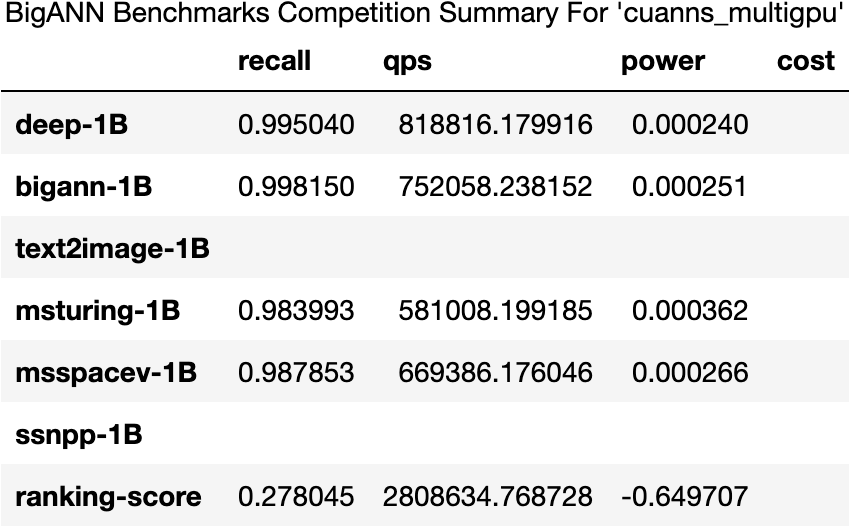
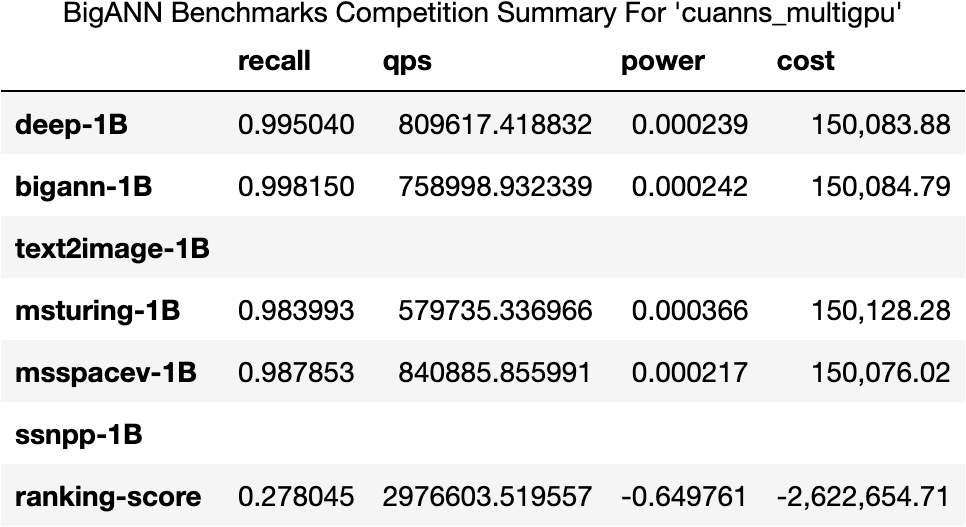
latest run

diff --git a/t3/run_eval.py b/t3/run_eval.py
@@ -75,9 +75,9 @@ SUBM_MAPPING            = \
     },
     "cuanns_multigpu": {
         "team":         "NVidia",
-        "results_dir":  "%s/nvidia/cuanns_multigpu/results.power_mon" % COMP_RESULTS_TOPLEVEL,
-        "export_fname": "res.power_mon.csv", #"res.no_power_mon.csv",
-        "system_cost":  0,
+        "results_dir":  "%s/nvidia/cuanns_multigpu/results2.power_mon" % COMP_RESULTS_TOPLEVEL,
+        "export_fname": "res2.power_mon.csv", #"res.no_power_mon.csv",
+        "system_cost":  150000,
         "md_prefix":    "NV",
         "status":       "inprog",
         "display_hw":   "NVidia GPU",

diff --git a/t3/LEADERBOARDS.md b/t3/LEADERBOARDS.md
@@ -16,11 +16,11 @@ Please note that all rankings are currently unofficial due to the following reas
 |--------------------|-----------|----------|-------|---------|---------|--------|---------|--------------|-----------------------------|---------------------------|
 |deepgram            |DeepGram   |NVidia GPU|final  |        -|        -|       -|     *NQ*|          *NQ*|                         *NQ*|                       *NQ*|
 |[diskann](https://github.com/harsha-simhadri/big-ann-benchmarks/blob/gw/T3/t3/diskann-bare-metal/README.md)  |Microsoft Research(*org*)    |Dell PowerEdge   |inprog |Harsha Simhadri  |[src](https://github.com/harsha-simhadri/big-ann-benchmarks/blob/gw/T3/benchmark/algorithms/diskann-t2.py)  |[nb](https://github.com/harsha-simhadri/big-ann-benchmarks/blob/gw/T3/t3/eval_2021/diskann-bare-metal/EvalPublic.ipynb) |[1](#recall-or-ap-rankings)  |[3](#throughput-rankings)       |*NQ*                      |*NQ*                    |
-|[faiss_t3](https://github.com/harsha-simhadri/big-ann-benchmarks/blob/gw/T3/t3/faiss_t3/README.md)    |Facebook Research(*org*)     |NVidia GPU    |final  |George Williams   |[src](https://github.com/harsha-simhadri/big-ann-benchmarks/blob/gw/T3/benchmark/algorithms/faiss_t3.py)   |[nb](https://github.com/harsha-simhadri/big-ann-benchmarks/blob/gw/T3/t3/eval_2021/faiss_t3/EvalPublic.ipynb)  |[5](#recall-or-ap-rankings)   |[5](#throughput-rankings)        |[4](#power-rankings)                       |[2](#cost-rankings)                     |
-|[gemini](https://github.com/harsha-simhadri/big-ann-benchmarks/blob/gw/T3/t3/gemini/README.md)  |GSI Technology(*org*)    |LedaE APU   |inprog |George Williams  |[src](https://github.com/harsha-simhadri/big-ann-benchmarks/blob/gw/T3/benchmark/algorithms/gemini.py)  |[nb](https://github.com/harsha-simhadri/big-ann-benchmarks/blob/gw/T3/t3/eval_2021/gemini/EvalPublic.ipynb) |[2](#recall-or-ap-rankings)  |[4](#throughput-rankings)       |[3](#power-rankings)                      |[3](#cost-rankings)                    |
+|[faiss_t3](https://github.com/harsha-simhadri/big-ann-benchmarks/blob/gw/T3/t3/faiss_t3/README.md)    |Facebook Research(*org*)     |NVidia GPU    |final  |George Williams   |[src](https://github.com/harsha-simhadri/big-ann-benchmarks/blob/gw/T3/benchmark/algorithms/faiss_t3.py)   |[nb](https://github.com/harsha-simhadri/big-ann-benchmarks/blob/gw/T3/t3/eval_2021/faiss_t3/EvalPublic.ipynb)  |[5](#recall-or-ap-rankings)   |[5](#throughput-rankings)        |[4](#power-rankings)                       |[3](#cost-rankings)                     |
+|[gemini](https://github.com/harsha-simhadri/big-ann-benchmarks/blob/gw/T3/t3/gemini/README.md)  |GSI Technology(*org*)    |LedaE APU   |inprog |George Williams  |[src](https://github.com/harsha-simhadri/big-ann-benchmarks/blob/gw/T3/benchmark/algorithms/gemini.py)  |[nb](https://github.com/harsha-simhadri/big-ann-benchmarks/blob/gw/T3/t3/eval_2021/gemini/EvalPublic.ipynb) |[2](#recall-or-ap-rankings)  |[4](#throughput-rankings)       |[3](#power-rankings)                      |[4](#cost-rankings)                    |
 |kanndi              |Silo.ai    |LedaE APU   |inprog |        -|        -|       -|        -|             -|                            -|                          -|
 |nvidia_single_gpu   |NVidia     |NVidia GPU|inprog |        -|        -|       -|        -|             -|                            -|                          -|
-|[cuanns_multigpu](https://github.com/harsha-simhadri/big-ann-benchmarks/blob/gw/T3/t3/cuanns_multigpu/README.md)    |NVidia     |NVidia GPU    |inprog  |George Williams   |[src](https://github.com/harsha-simhadri/big-ann-benchmarks/blob/gw/T3/benchmark/algorithms/cuanns_multigpu.py)   |[nb](https://github.com/harsha-simhadri/big-ann-benchmarks/blob/gw/T3/t3/eval_2021/cuanns_multigpu/EvalPublic.ipynb)  |[4](#recall-or-ap-rankings)   |[1](#throughput-rankings)        |[2](#power-rankings)                       |*NQ*                     |
+|[cuanns_multigpu](https://github.com/harsha-simhadri/big-ann-benchmarks/blob/gw/T3/t3/cuanns_multigpu/README.md)    |NVidia     |NVidia GPU    |inprog  |George Williams   |[src](https://github.com/harsha-simhadri/big-ann-benchmarks/blob/gw/T3/benchmark/algorithms/cuanns_multigpu.py)   |[nb](https://github.com/harsha-simhadri/big-ann-benchmarks/blob/gw/T3/t3/eval_2021/cuanns_multigpu/EvalPublic.ipynb)  |[4](#recall-or-ap-rankings)   |[1](#throughput-rankings)        |[2](#power-rankings)                       |[2](#cost-rankings)                     |
 |[optanne_graphann](https://github.com/harsha-simhadri/big-ann-benchmarks/blob/gw/T3/t3/optanne_graphann/README.md)|Intel   |Intel Optane  |inprog|George Williams |[src](https://github.com/harsha-simhadri/big-ann-benchmarks/blob/gw/T3/benchmark/algorithms/graphann.py) |[nb](https://github.com/harsha-simhadri/big-ann-benchmarks/blob/gw/T3/t3/eval_2021/optanne_graphann/EvalPublic.ipynb)|[3](#recall-or-ap-rankings) |[2](#throughput-rankings)      |[1](#power-rankings)                     |[1](#cost-rankings)                   |
 |optanne_graphann_2  |Intel   |Intel Optane  |inprog |        -|        -|       -|        -|             -|                            -|                          -|
 |vector_t3           |Vector Inst|NVidia GPU|final  |        -|        -|       -|     *NQ*|          *NQ*|                         *NQ*|                       *NQ*|
@@ -59,7 +59,7 @@ Please note that all rankings are currently unofficial due to the following reas
 
 |Rank|Submission        |Team   |Hardware|Status |Score      |[Deep1B](#deep1B-throughput-rankings)|[BigANN](#bigann-throughput-rankings)|[MSTuring](#msturing-throughput-rankings)|[MSSpace](#msspace-throughput-rankings)|[Text2Image](#text2image-throughput-rankings)|[FBSSNet](#fbsimsearchnet-throughput-rankings)|
 |----|------------------|-------|--------|-------|-----------|------|------|--------|-------|----------|--------------|
-|   1|[cuanns_multigpu](https://github.com/harsha-simhadri/big-ann-benchmarks/blob/gw/T3/t3/cuanns_multigpu/README.md)|NVidia|NVidia GPU |inprog|**2808634.769**|[818,816.180](https://github.com/harsha-simhadri/big-ann-benchmarks/blob/gw/T3/t3/eval_2021/cuanns_multigpu/deep-1B_throughput.png) |[752,058.238](https://github.com/harsha-simhadri/big-ann-benchmarks/blob/gw/T3/t3/eval_2021/cuanns_multigpu/bigann-1B_throughput.png) |[581,008.199](https://github.com/harsha-simhadri/big-ann-benchmarks/blob/gw/T3/t3/eval_2021/cuanns_multigpu/msturing-1B_throughput.png)   |[669,386.176](https://github.com/harsha-simhadri/big-ann-benchmarks/blob/gw/T3/t3/eval_2021/cuanns_multigpu/msspacev-1B_throughput.png)  |-     |-         |
+|   1|[cuanns_multigpu](https://github.com/harsha-simhadri/big-ann-benchmarks/blob/gw/T3/t3/cuanns_multigpu/README.md)|NVidia|NVidia GPU |inprog|**2976603.520**|[809,617.419](https://github.com/harsha-simhadri/big-ann-benchmarks/blob/gw/T3/t3/eval_2021/cuanns_multigpu/deep-1B_throughput.png) |[758,998.932](https://github.com/harsha-simhadri/big-ann-benchmarks/blob/gw/T3/t3/eval_2021/cuanns_multigpu/bigann-1B_throughput.png) |[579,735.337](https://github.com/harsha-simhadri/big-ann-benchmarks/blob/gw/T3/t3/eval_2021/cuanns_multigpu/msturing-1B_throughput.png)   |[840,885.856](https://github.com/harsha-simhadri/big-ann-benchmarks/blob/gw/T3/t3/eval_2021/cuanns_multigpu/msspacev-1B_throughput.png)  |-     |-         |
 |   2|[optanne_graphann](https://github.com/harsha-simhadri/big-ann-benchmarks/blob/gw/T3/t3/optanne_graphann/README.md)|Intel|Intel Optane |inprog|**821550.201**|[184,490.708](https://github.com/harsha-simhadri/big-ann-benchmarks/blob/gw/T3/t3/eval_2021/optanne_graphann/deep-1B_throughput.png) |[343,727.791](https://github.com/harsha-simhadri/big-ann-benchmarks/blob/gw/T3/t3/eval_2021/optanne_graphann/bigann-1B_throughput.png) |[157,277.710](https://github.com/harsha-simhadri/big-ann-benchmarks/blob/gw/T3/t3/eval_2021/optanne_graphann/msturing-1B_throughput.png)   |[139,612.021](https://github.com/harsha-simhadri/big-ann-benchmarks/blob/gw/T3/t3/eval_2021/optanne_graphann/msspacev-1B_throughput.png)  |[10,838.358](https://github.com/harsha-simhadri/big-ann-benchmarks/blob/gw/T3/t3/eval_2021/optanne_graphann/text2image-1B_throughput.png)     |-         | 
 |   3|[diskann](https://github.com/harsha-simhadri/big-ann-benchmarks/blob/gw/T3/t3/diskann-bare-metal/README.md)|Microsoft Research(*org*)|Dell PowerEdge |inprog|**50635.296**|[12,926.890](https://github.com/harsha-simhadri/big-ann-benchmarks/blob/gw/T3/t3/eval_2021/diskann-bare-metal/deep-1B_throughput.png) |[19,094.371](https://github.com/harsha-simhadri/big-ann-benchmarks/blob/gw/T3/t3/eval_2021/diskann-bare-metal/bigann-1B_throughput.png) |[17,200.601](https://github.com/harsha-simhadri/big-ann-benchmarks/blob/gw/T3/t3/eval_2021/diskann-bare-metal/msturing-1B_throughput.png)   |[6,503.212](https://github.com/harsha-simhadri/big-ann-benchmarks/blob/gw/T3/t3/eval_2021/diskann-bare-metal/msspacev-1B_throughput.png)  |[9,306.610](https://github.com/harsha-simhadri/big-ann-benchmarks/blob/gw/T3/t3/eval_2021/diskann-bare-metal/text2image-1B_throughput.png)     |-         | 
 |   4|[gemini](https://github.com/harsha-simhadri/big-ann-benchmarks/blob/gw/T3/t3/gemini/README.md)|GSI Technology(*org*)|LedaE APU |inprog|**34209.040**|[9,150.271](https://github.com/harsha-simhadri/big-ann-benchmarks/blob/gw/T3/t3/eval_2021/gemini/deep-1B_throughput.png) |[9,504.865](https://github.com/harsha-simhadri/big-ann-benchmarks/blob/gw/T3/t3/eval_2021/gemini/bigann-1B_throughput.png) |[20,166.678](https://github.com/harsha-simhadri/big-ann-benchmarks/blob/gw/T3/t3/eval_2021/gemini/msturing-1B_throughput.png)   |[8,587.024](https://github.com/harsha-simhadri/big-ann-benchmarks/blob/gw/T3/t3/eval_2021/gemini/msspacev-1B_throughput.png)  |[1,196.589](https://github.com/harsha-simhadri/big-ann-benchmarks/blob/gw/T3/t3/eval_2021/gemini/text2image-1B_throughput.png)     |-         | 
@@ -82,7 +82,7 @@ Please note that all rankings are currently unofficial due to the following reas
 |Rank|Submission        |Team   |Hardware|Status |Score      |[Deep1B](#deep1B-power-rankings)|[BigANN](#bigann-power-rankings)|[MSTuring](#msturing-power-rankings)|[MSSpace](#msspace-power-rankings)|[Text2Image](#text2image-power-rankings)|[FBSSNet](#fbsimsearchnet-power-rankings)|
 |----|------------------|-------|--------|-------|-----------|------|------|--------|-------|-----|-----|
 |   1|[optanne_graphann](https://github.com/harsha-simhadri/big-ann-benchmarks/blob/gw/T3/t3/cuanns_multigpu/README.md)|Intel|Intel Optane |inprog|**-0.687**|[0.0040](https://github.com/harsha-simhadri/big-ann-benchmarks/blob/gw/T3/t3/eval_2021/optanne_graphann/deep-1B_power.png) |[0.0021](https://github.com/harsha-simhadri/big-ann-benchmarks/blob/gw/T3/t3/eval_2021/optanne_graphann/bigann-1B_power.png) |[0.0049](https://github.com/harsha-simhadri/big-ann-benchmarks/blob/gw/T3/t3/eval_2021/optanne_graphann/msturing-1B_power.png)   |[0.0054](https://github.com/harsha-simhadri/big-ann-benchmarks/blob/gw/T3/t3/eval_2021/optanne_graphann/msspacev-1B_power.png)  |[0.0702](https://github.com/harsha-simhadri/big-ann-benchmarks/blob/gw/T3/t3/eval_2021/optanne_graphann/text2image-1B_power.png)|-|
-|   2|[cuanns_multigpu](https://github.com/harsha-simhadri/big-ann-benchmarks/blob/gw/T3/t3/optanne_graphann/README.md)|NVidia|NVidia GPU |inprog|**-0.650**|[0.0002](https://github.com/harsha-simhadri/big-ann-benchmarks/blob/gw/T3/t3/eval_2021/cuanns_multigpu/deep-1B_power.png) |[0.0003](https://github.com/harsha-simhadri/big-ann-benchmarks/blob/gw/T3/t3/eval_2021/cuanns_multigpu/bigann-1B_power.png) |[0.0004](https://github.com/harsha-simhadri/big-ann-benchmarks/blob/gw/T3/t3/eval_2021/cuanns_multigpu/msturing-1B_power.png)   |[0.0003](https://github.com/harsha-simhadri/big-ann-benchmarks/blob/gw/T3/t3/eval_2021/cuanns_multigpu/msspacev-1B_power.png)  |-|-| 
+|   2|[cuanns_multigpu](https://github.com/harsha-simhadri/big-ann-benchmarks/blob/gw/T3/t3/optanne_graphann/README.md)|NVidia|NVidia GPU |inprog|**-0.650**|[0.0002](https://github.com/harsha-simhadri/big-ann-benchmarks/blob/gw/T3/t3/eval_2021/cuanns_multigpu/deep-1B_power.png) |[0.0002](https://github.com/harsha-simhadri/big-ann-benchmarks/blob/gw/T3/t3/eval_2021/cuanns_multigpu/bigann-1B_power.png) |[0.0004](https://github.com/harsha-simhadri/big-ann-benchmarks/blob/gw/T3/t3/eval_2021/cuanns_multigpu/msturing-1B_power.png)   |[0.0002](https://github.com/harsha-simhadri/big-ann-benchmarks/blob/gw/T3/t3/eval_2021/cuanns_multigpu/msspacev-1B_power.png)  |-|-| 
 |   3|[gemini](https://github.com/harsha-simhadri/big-ann-benchmarks/blob/gw/T3/t3/diskann-bare-metal/README.md)|GSI Technology(*org*)|LedaE APU |inprog|**-0.121**|[0.0398](https://github.com/harsha-simhadri/big-ann-benchmarks/blob/gw/T3/t3/eval_2021/gemini/deep-1B_power.png) |[0.0394](https://github.com/harsha-simhadri/big-ann-benchmarks/blob/gw/T3/t3/eval_2021/gemini/bigann-1B_power.png) |[0.0227](https://github.com/harsha-simhadri/big-ann-benchmarks/blob/gw/T3/t3/eval_2021/gemini/msturing-1B_power.png)   |[0.0485](https://github.com/harsha-simhadri/big-ann-benchmarks/blob/gw/T3/t3/eval_2021/gemini/msspacev-1B_power.png)  |[0.5029](https://github.com/harsha-simhadri/big-ann-benchmarks/blob/gw/T3/t3/eval_2021/gemini/text2image-1B_power.png)|-| 
 |   4|[faiss_t3](https://github.com/harsha-simhadri/big-ann-benchmarks/blob/gw/T3/t3/gemini/README.md)|Facebook Research(*org*)|NVidia GPU |final|**baseline**|[0.1126](https://github.com/harsha-simhadri/big-ann-benchmarks/blob/gw/T3/t3/eval_2021/faiss_t3/deep-1B_power.png) |[0.1671](https://github.com/harsha-simhadri/big-ann-benchmarks/blob/gw/T3/t3/eval_2021/faiss_t3/bigann-1B_power.png) |[0.2037](https://github.com/harsha-simhadri/big-ann-benchmarks/blob/gw/T3/t3/eval_2021/faiss_t3/msturing-1B_power.png)   |[0.1674](https://github.com/harsha-simhadri/big-ann-benchmarks/blob/gw/T3/t3/eval_2021/faiss_t3/msspacev-1B_power.png)  |[0.1233](https://github.com/harsha-simhadri/big-ann-benchmarks/blob/gw/T3/t3/eval_2021/faiss_t3/text2image-1B_power.png)|[0.0949](https://github.com/harsha-simhadri/big-ann-benchmarks/blob/gw/T3/t3/eval_2021/faiss_t3/ssnpp-1B_power.png)| 
 |   5|[-](https://github.com/harsha-simhadri/big-ann-benchmarks/blob/gw/T3/t3/faiss_t3/README.md)|-|- |-|**-**|- |- |-   |-  |-|-| 
@@ -104,9 +104,9 @@ Please note that all rankings are currently unofficial due to the following reas
 |Rank|Submission        |Team   |Hardware|Status |Score      |[Deep1B](#deep1B-cost-rankings)|[BigANN](#bigann-cost-rankings)|[MSTuring](#msturing-cost-rankings)|[MSSpace](#msspace-cost-rankings)|[Text2Image](#text2image-cost-rankings)|[FBSSNet](#fbsimsearchnet-cost-rankings)|
 |----|------------------|-------|--------|-------|-----------|------|------|--------|-------|----------|--------------|
 |   1|[optanne_graphann](https://github.com/harsha-simhadri/big-ann-benchmarks/blob/gw/T3/t3/optanne_graphann/README.md)|Intel|Intel Optane |inprog|**$-4,285,768.44**|$16,082.49 |$15,407.15 |$16,397.80   |$16,563.61  |$171,244.96     |-         |
-|   2|[faiss_t3](https://github.com/harsha-simhadri/big-ann-benchmarks/blob/gw/T3/t3/faiss_t3/README.md)|Facebook Research(*org*)|NVidia GPU |final|**baseline**|$545,952.10 |$785,282.45 |$1,018,332.30   |$873,460.84  |$1,298,436.77     |$429,634.84         |
-|   3|[gemini](https://github.com/harsha-simhadri/big-ann-benchmarks/blob/gw/T3/t3/gemini/README.md)|GSI Technology(*org*)|LedaE APU |inprog|**$2,561,786.18**|$626,932.94 |$626,785.91 |$286,578.81   |$685,704.76  |$4,857,248.23     |-         |
-|   4|[-](-)|-|- |-|**-**|- |- |-   |-  |-     |-         |
+|   2|[cuanns_multigpu](https://github.com/harsha-simhadri/big-ann-benchmarks/blob/gw/T3/t3/cuanns_multigpu/README.md)|NVidia|NVidia GPU |inprog|**$-2,622,654.71**|$150,083.88 |$150,084.79 |$150,128.28   |$150,076.02  |-     |-         |
+|   3|[faiss_t3](https://github.com/harsha-simhadri/big-ann-benchmarks/blob/gw/T3/t3/faiss_t3/README.md)|Facebook Research(*org*)|NVidia GPU |final|**baseline**|$545,952.10 |$785,282.45 |$1,018,332.30   |$873,460.84  |$1,298,436.77     |$429,634.84         |
+|   4|[gemini](https://github.com/harsha-simhadri/big-ann-benchmarks/blob/gw/T3/t3/gemini/README.md)|GSI Technology(*org*)|LedaE APU |inprog|**$2,561,786.18**|$626,932.94 |$626,785.91 |$286,578.81   |$685,704.76  |$4,857,248.23     |-         |
 |   5|[-](-)|-|- |-|**-**|- |- |-   |-  |-     |-         |
 |   6|                 -|      -|       -|      -|          -|     -|     -|       -|      -|         -|             -|
 |   7|                 -|      -|       -|      -|          -|     -|     -|       -|      -|         -|             -|
@@ -150,7 +150,7 @@ Please note that all rankings are currently unofficial due to the following reas
 
 |Rank|Submission                                             |Team                          |Hardware               |Status  |Q/S        |
 |----|-------------------------------------------------------|------------------------------|-----------------------|--------|-----------|
-|   1|[cuanns_multigpu](https://github.com/harsha-simhadri/big-ann-benchmarks/blob/gw/T3/t3/cuanns_multigpu/README.md)                                   |NVidia                      |NVidia GPU               |inprog|**[818,816.180](https://github.com/harsha-simhadri/big-ann-benchmarks/blob/gw/T3/t3/eval_2021/cuanns_multigpu/deep-1B_throughput.png)**|
+|   1|[cuanns_multigpu](https://github.com/harsha-simhadri/big-ann-benchmarks/blob/gw/T3/t3/cuanns_multigpu/README.md)                                   |NVidia                      |NVidia GPU               |inprog|**[809,617.419](https://github.com/harsha-simhadri/big-ann-benchmarks/blob/gw/T3/t3/eval_2021/cuanns_multigpu/deep-1B_throughput.png)**|
 |   2|[optanne_graphann](https://github.com/harsha-simhadri/big-ann-benchmarks/blob/gw/T3/t3/optanne_graphann/README.md)                                   |Intel                      |Intel Optane               |inprog|**[184,490.708](https://github.com/harsha-simhadri/big-ann-benchmarks/blob/gw/T3/t3/eval_2021/optanne_graphann/deep-1B_throughput.png)**|
 |   3|[diskann](https://github.com/harsha-simhadri/big-ann-benchmarks/blob/gw/T3/t3/diskann-bare-metal/README.md)                                   |Microsoft Research(*org*)                      |Dell PowerEdge               |inprog|**[12,926.890](https://github.com/harsha-simhadri/big-ann-benchmarks/blob/gw/T3/t3/eval_2021/diskann-bare-metal/deep-1B_throughput.png)**|
 |   4|[gemini](https://github.com/harsha-simhadri/big-ann-benchmarks/blob/gw/T3/t3/gemini/README.md)                                   |GSI Technology(*org*)                      |LedaE APU               |inprog|**[9,150.271](https://github.com/harsha-simhadri/big-ann-benchmarks/blob/gw/T3/t3/eval_2021/gemini/deep-1B_throughput.png)**|
@@ -193,9 +193,9 @@ Please note that all rankings are currently unofficial due to the following reas
 |Rank|Submission          |Team     |Hardware               |Status  |Cost         |capex   |opex    |unit cost|units@100K qps|KwH*4yrs |
 |----|--------------------|---------|-----------------------|--------|-------------|--------|--------|---------|--------------|---------|
 |   1|[optanne_graphann](https://github.com/harsha-simhadri/big-ann-benchmarks/blob/gw/T3/t3/optanne_graphann/README.md)|Intel |Intel Optane               |inprog|**$16,082.49**  |$14,664.20|$1,418.29|$14,664.20 |1      |14,182.933|
-|   2|[faiss_t3](https://github.com/harsha-simhadri/big-ann-benchmarks/blob/gw/T3/t3/faiss_t3/README.md)|Facebook Research(*org*) |NVidia GPU               |final|**$545,952.10**  |$506,503.70|$39,448.40|$22,021.90 |23      |394,484.028|
-|   3|[gemini](https://github.com/harsha-simhadri/big-ann-benchmarks/blob/gw/T3/t3/gemini/README.md)|GSI Technology(*org*) |LedaE APU               |inprog|**$626,932.94**  |$612,993.26|$13,939.68|$55,726.66 |11      |139,396.812|
-|   4|[-](-)|- |-               |-|**-**  |-|-|- |-      |-|
+|   2|[cuanns_multigpu](https://github.com/harsha-simhadri/big-ann-benchmarks/blob/gw/T3/t3/cuanns_multigpu/README.md)|NVidia |NVidia GPU               |inprog|**$150,083.88**  |$150,000.00|$83.88|$150,000.00 |1      |838.771|
+|   3|[faiss_t3](https://github.com/harsha-simhadri/big-ann-benchmarks/blob/gw/T3/t3/faiss_t3/README.md)|Facebook Research(*org*) |NVidia GPU               |final|**$545,952.10**  |$506,503.70|$39,448.40|$22,021.90 |23      |394,484.028|
+|   4|[gemini](https://github.com/harsha-simhadri/big-ann-benchmarks/blob/gw/T3/t3/gemini/README.md)|GSI Technology(*org*) |LedaE APU               |inprog|**$626,932.94**  |$612,993.26|$13,939.68|$55,726.66 |11      |139,396.812|
 |   5|[-](-)|- |-               |-|**-**  |-|-|- |-      |-|
 |   6|                   -|        -|                      -|       -|            -|        -|      -|        -|             -|        -|
 |   7|                   -|        -|                      -|       -|            -|        -|      -|        -|             -|        -|
@@ -242,7 +242,7 @@ Please note that all rankings are currently unofficial due to the following reas
 
 |Rank|Submission                                             |Team                          |Hardware               |Status  |Q/S          |
 |----|-------------------------------------------------------|------------------------------|-----------------------|--------|-------------|
-|   1|[cuanns_multigpu](https://github.com/harsha-simhadri/big-ann-benchmarks/blob/gw/T3/t3/cuanns_multigpu/README.md)                                   |NVidia                      |NVidia GPU               |inprog|**[752,058.238](https://github.com/harsha-simhadri/big-ann-benchmarks/blob/gw/T3/t3/eval_2021/cuanns_multigpu/bigann-1B_throughput.png)**  |
+|   1|[cuanns_multigpu](https://github.com/harsha-simhadri/big-ann-benchmarks/blob/gw/T3/t3/cuanns_multigpu/README.md)                                   |NVidia                      |NVidia GPU               |inprog|**[758,998.932](https://github.com/harsha-simhadri/big-ann-benchmarks/blob/gw/T3/t3/eval_2021/cuanns_multigpu/bigann-1B_throughput.png)**  |
 |   2|[optanne_graphann](https://github.com/harsha-simhadri/big-ann-benchmarks/blob/gw/T3/t3/optanne_graphann/README.md)                                   |Intel                      |Intel Optane               |inprog|**[343,727.791](https://github.com/harsha-simhadri/big-ann-benchmarks/blob/gw/T3/t3/eval_2021/optanne_graphann/bigann-1B_throughput.png)**  |
 |   3|[diskann](https://github.com/harsha-simhadri/big-ann-benchmarks/blob/gw/T3/t3/diskann-bare-metal/README.md)                                   |Microsoft Research(*org*)                      |Dell PowerEdge               |inprog|**[19,094.371](https://github.com/harsha-simhadri/big-ann-benchmarks/blob/gw/T3/t3/eval_2021/diskann-bare-metal/bigann-1B_throughput.png)**  |
 |   4|[gemini](https://github.com/harsha-simhadri/big-ann-benchmarks/blob/gw/T3/t3/gemini/README.md)                                   |GSI Technology(*org*)                      |LedaE APU               |inprog|**[9,504.865](https://github.com/harsha-simhadri/big-ann-benchmarks/blob/gw/T3/t3/eval_2021/gemini/bigann-1B_throughput.png)**  |
@@ -263,7 +263,7 @@ Please note that all rankings are currently unofficial due to the following reas
 
 |Rank|Submission                                             |Team                          |Hardware               |Status  |W*S/Q      |
 |----|-------------------------------------------------------|------------------------------|-----------------------|--------|-----------|
-|   1|[cuanns_multigpu](https://github.com/harsha-simhadri/big-ann-benchmarks/blob/gw/T3/t3/cuanns_multigpu/README.md)                                   |NVidia                      |NVidia GPU               |inprog|**[0.0003](https://github.com/harsha-simhadri/big-ann-benchmarks/blob/gw/T3/t3/eval_2021/cuanns_multigpu/bigann-1B_power.png)**|       
+|   1|[cuanns_multigpu](https://github.com/harsha-simhadri/big-ann-benchmarks/blob/gw/T3/t3/cuanns_multigpu/README.md)                                   |NVidia                      |NVidia GPU               |inprog|**[0.0002](https://github.com/harsha-simhadri/big-ann-benchmarks/blob/gw/T3/t3/eval_2021/cuanns_multigpu/bigann-1B_power.png)**|       
 |   2|[optanne_graphann](https://github.com/harsha-simhadri/big-ann-benchmarks/blob/gw/T3/t3/optanne_graphann/README.md)                                   |Intel                      |Intel Optane               |inprog|**[0.0021](https://github.com/harsha-simhadri/big-ann-benchmarks/blob/gw/T3/t3/eval_2021/optanne_graphann/bigann-1B_power.png)**|       
 |   3|[gemini](https://github.com/harsha-simhadri/big-ann-benchmarks/blob/gw/T3/t3/gemini/README.md)                                   |GSI Technology(*org*)                      |LedaE APU               |inprog|**[0.0394](https://github.com/harsha-simhadri/big-ann-benchmarks/blob/gw/T3/t3/eval_2021/gemini/bigann-1B_power.png)**|      
 |   4|[faiss_t3](https://github.com/harsha-simhadri/big-ann-benchmarks/blob/gw/T3/t3/faiss_t3/README.md)                                   |Facebook Research(*org*)                      |NVidia GPU               |final|**[0.1671](https://github.com/harsha-simhadri/big-ann-benchmarks/blob/gw/T3/t3/eval_2021/faiss_t3/bigann-1B_power.png)**|      
@@ -285,9 +285,9 @@ Please note that all rankings are currently unofficial due to the following reas
 |Rank|Submission          |Team                          |Hardware            |Status  |Cost          |capex   |opex    |unit cost|units@100K qps|KwH*4yrs |
 |----|--------------------|------------------------------|--------------------|--------|--------------|--------|--------|---------|--------------|---------|
 |   1|[optanne_graphann](https://github.com/harsha-simhadri/big-ann-benchmarks/blob/gw/T3/t3/optanne_graphann/README.md)|Intel                      |Intel Optane            |inprog|**$15,407.15**   |$14,664.20|$742.95|$14,664.20 |1      |7,429.540|
-|   2|[gemini](https://github.com/harsha-simhadri/big-ann-benchmarks/blob/gw/T3/t3/gemini/README.md)|GSI Technology(*org*)                      |LedaE APU            |inprog|**$626,785.91**   |$612,993.26|$13,792.65|$55,726.66 |11      |137,926.464|      
-|   3|[faiss_t3](https://github.com/harsha-simhadri/big-ann-benchmarks/blob/gw/T3/t3/faiss_t3/README.md)|Facebook Research(*org*)                      |NVidia GPU            |final|**$785,282.45**   |$726,722.70|$58,559.75|$22,021.90 |33      |585,597.505|  
-|   4|[-](-)|-                      |-            |-|**-**   |-|-|- |-      |-|  
+|   2|[cuanns_multigpu](https://github.com/harsha-simhadri/big-ann-benchmarks/blob/gw/T3/t3/cuanns_multigpu/README.md)|NVidia                      |NVidia GPU            |inprog|**$150,084.79**   |$150,000.00|$84.79|$150,000.00 |1      |847.928|      
+|   3|[gemini](https://github.com/harsha-simhadri/big-ann-benchmarks/blob/gw/T3/t3/gemini/README.md)|GSI Technology(*org*)                      |LedaE APU            |inprog|**$626,785.91**   |$612,993.26|$13,792.65|$55,726.66 |11      |137,926.464|  
+|   4|[faiss_t3](https://github.com/harsha-simhadri/big-ann-benchmarks/blob/gw/T3/t3/faiss_t3/README.md)|Facebook Research(*org*)                      |NVidia GPU            |final|**$785,282.45**   |$726,722.70|$58,559.75|$22,021.90 |33      |585,597.505|  
 |   5|[-](-)|-                      |-            |-|**-**   |-|-|- |-      |-|  
 |   6|                   -|                             -|                   -|       -|             -|       -|       -|        -|             -|        -|
 |   7|                   -|                             -|                   -|       -|             -|       -|       -|        -|             -|        -|
@@ -334,7 +334,7 @@ Please note that all rankings are currently unofficial due to the following reas
 
 |Rank|Submission                                             |Team                          |Hardware               |Status  |Q/S         |
 |----|-------------------------------------------------------|------------------------------|-----------------------|--------|------------|
-|   1|[cuanns_multigpu](https://github.com/harsha-simhadri/big-ann-benchmarks/blob/gw/T3/t3/cuanns_multigpu/README.md)                                   |NVidia                      |NVidia GPU               |inprog|**[581,008.199](https://github.com/harsha-simhadri/big-ann-benchmarks/blob/gw/T3/t3/eval_2021/cuanns_multigpu/msturing-1B_throughput.png)** |
+|   1|[cuanns_multigpu](https://github.com/harsha-simhadri/big-ann-benchmarks/blob/gw/T3/t3/cuanns_multigpu/README.md)                                   |NVidia                      |NVidia GPU               |inprog|**[579,735.337](https://github.com/harsha-simhadri/big-ann-benchmarks/blob/gw/T3/t3/eval_2021/cuanns_multigpu/msturing-1B_throughput.png)** |
 |   2|[optanne_graphann](https://github.com/harsha-simhadri/big-ann-benchmarks/blob/gw/T3/t3/optanne_graphann/README.md)                                   |Intel                      |Intel Optane               |inprog|**[157,277.710](https://github.com/harsha-simhadri/big-ann-benchmarks/blob/gw/T3/t3/eval_2021/optanne_graphann/msturing-1B_throughput.png)** |
 |   3|[gemini](https://github.com/harsha-simhadri/big-ann-benchmarks/blob/gw/T3/t3/gemini/README.md)                                   |GSI Technology(*org*)                      |LedaE APU               |inprog|**[20,166.678](https://github.com/harsha-simhadri/big-ann-benchmarks/blob/gw/T3/t3/eval_2021/gemini/msturing-1B_throughput.png)** |
 |   4|[diskann](https://github.com/harsha-simhadri/big-ann-benchmarks/blob/gw/T3/t3/diskann-bare-metal/README.md)                                   |Microsoft Research(*org*)                      |Dell PowerEdge               |inprog|**[17,200.601](https://github.com/harsha-simhadri/big-ann-benchmarks/blob/gw/T3/t3/eval_2021/diskann-bare-metal/msturing-1B_throughput.png)** |
@@ -377,9 +377,9 @@ Please note that all rankings are currently unofficial due to the following reas
 |Rank|Submission                          |Team                          |Hardware               |Status  |Cost          |capex   |opex    |unit cost|units@100K qps|KwH*4yrs  |
 |----|------------------------------------|------------------------------|-----------------------|--------|--------------|--------|--------|---------|--------------|----------|
 |   1|[optanne_graphann](https://github.com/harsha-simhadri/big-ann-benchmarks/blob/gw/T3/t3/optanne_graphann/README.md)                |Intel                      |Intel Optane               |inprog|**$16,397.80**   |$14,664.20|$1,733.60|$14,664.20 |1      |17,335.975 |
-|   2|[gemini](https://github.com/harsha-simhadri/big-ann-benchmarks/blob/gw/T3/t3/gemini/README.md)                |GSI Technology(*org*)                      |LedaE APU               |inprog|**$286,578.81**   |$278,633.30|$7,945.51|$55,726.66 |5      |79,455.069 |         
-|   3|[faiss_t3](https://github.com/harsha-simhadri/big-ann-benchmarks/blob/gw/T3/t3/faiss_t3/README.md)                |Facebook Research(*org*)                      |NVidia GPU               |final|**$1,018,332.30**   |$946,941.70|$71,390.60|$22,021.90 |43      |713,905.964 |       
-|   4|[-](-)                |-                      |-               |-|**-**   |-|-|- |-      |- |       
+|   2|[cuanns_multigpu](https://github.com/harsha-simhadri/big-ann-benchmarks/blob/gw/T3/t3/cuanns_multigpu/README.md)                |NVidia                      |NVidia GPU               |inprog|**$150,128.28**   |$150,000.00|$128.28|$150,000.00 |1      |1,282.838 |         
+|   3|[gemini](https://github.com/harsha-simhadri/big-ann-benchmarks/blob/gw/T3/t3/gemini/README.md)                |GSI Technology(*org*)                      |LedaE APU               |inprog|**$286,578.81**   |$278,633.30|$7,945.51|$55,726.66 |5      |79,455.069 |       
+|   4|[faiss_t3](https://github.com/harsha-simhadri/big-ann-benchmarks/blob/gw/T3/t3/faiss_t3/README.md)                |Facebook Research(*org*)                      |NVidia GPU               |final|**$1,018,332.30**   |$946,941.70|$71,390.60|$22,021.90 |43      |713,905.964 |       
 |   5|[-](-)                |-                      |-               |-|**-**   |-|-|- |-      |- |       
 |   6|                                   -|                             -|                      -|       -|             -|       -|        -|       -|             -|         -|
 |   7|                                   -|                             -|                      -|       -|             -|       -|        -|       -|             -|         -|
@@ -405,7 +405,7 @@ Please note that all rankings are currently unofficial due to the following reas
 
 |Rank|Submission                                             |Team                          |Hardware               |Status  |R@10     |
 |----|-------------------------------------------------------|------------------------------|-----------------------|--------|---------|
-|   1|[cuanns_multigpu](https://github.com/harsha-simhadri/big-ann-benchmarks/blob/gw/T3/t3/cuanns_multigpu/README.md)                                   |NVidia                      |NVidia GPU               |inprog|**[0.0003](https://github.com/harsha-simhadri/big-ann-benchmarks/blob/gw/T3/t3/eval_2021/cuanns_multigpu/msspacev-1B_power.png)** |
+|   1|[cuanns_multigpu](https://github.com/harsha-simhadri/big-ann-benchmarks/blob/gw/T3/t3/cuanns_multigpu/README.md)                                   |NVidia                      |NVidia GPU               |inprog|**[0.0002](https://github.com/harsha-simhadri/big-ann-benchmarks/blob/gw/T3/t3/eval_2021/cuanns_multigpu/msspacev-1B_power.png)** |
 |   2|[optanne_graphann](https://github.com/harsha-simhadri/big-ann-benchmarks/blob/gw/T3/t3/optanne_graphann/README.md)                                   |Intel                      |Intel Optane               |inprog|**[0.0054](https://github.com/harsha-simhadri/big-ann-benchmarks/blob/gw/T3/t3/eval_2021/optanne_graphann/msspacev-1B_power.png)** |
 |   3|[gemini](https://github.com/harsha-simhadri/big-ann-benchmarks/blob/gw/T3/t3/gemini/README.md)                                   |GSI Technology(*org*)                      |LedaE APU               |inprog|**[0.0485](https://github.com/harsha-simhadri/big-ann-benchmarks/blob/gw/T3/t3/eval_2021/gemini/msspacev-1B_power.png)** |
 |   4|[faiss_t3](https://github.com/harsha-simhadri/big-ann-benchmarks/blob/gw/T3/t3/faiss_t3/README.md)                                   |Facebook Research(*org*)                      |NVidia GPU               |final|**[0.1674](https://github.com/harsha-simhadri/big-ann-benchmarks/blob/gw/T3/t3/eval_2021/faiss_t3/msspacev-1B_power.png)** |
@@ -426,7 +426,7 @@ Please note that all rankings are currently unofficial due to the following reas
 
 |Rank|Submission                                             |Team                          |Hardware               |Status  |Q/S         |
 |----|-------------------------------------------------------|------------------------------|-----------------------|--------|------------|
-|   1|[cuanns_multigpu](https://github.com/harsha-simhadri/big-ann-benchmarks/blob/gw/T3/t3/cuanns_multigpu/README.md)                                   |NVidia                      |NVidia GPU               |inprog|**[669,386.176](https://github.com/harsha-simhadri/big-ann-benchmarks/blob/gw/T3/t3/eval_2021/cuanns_multigpu/msspacev-1B_throughput.png)** |
+|   1|[cuanns_multigpu](https://github.com/harsha-simhadri/big-ann-benchmarks/blob/gw/T3/t3/cuanns_multigpu/README.md)                                   |NVidia                      |NVidia GPU               |inprog|**[840,885.856](https://github.com/harsha-simhadri/big-ann-benchmarks/blob/gw/T3/t3/eval_2021/cuanns_multigpu/msspacev-1B_throughput.png)** |
 |   2|[optanne_graphann](https://github.com/harsha-simhadri/big-ann-benchmarks/blob/gw/T3/t3/optanne_graphann/README.md)                                   |Intel                      |Intel Optane               |inprog|**[139,612.021](https://github.com/harsha-simhadri/big-ann-benchmarks/blob/gw/T3/t3/eval_2021/optanne_graphann/msspacev-1B_throughput.png)** |
 |   3|[gemini](https://github.com/harsha-simhadri/big-ann-benchmarks/blob/gw/T3/t3/gemini/README.md)                                   |GSI Technology(*org*)                      |LedaE APU               |inprog|**[8,587.024](https://github.com/harsha-simhadri/big-ann-benchmarks/blob/gw/T3/t3/eval_2021/gemini/msspacev-1B_throughput.png)** |
 |   4|[diskann](https://github.com/harsha-simhadri/big-ann-benchmarks/blob/gw/T3/t3/diskann-bare-metal/README.md)                                   |Microsoft Research(*org*)                      |Dell PowerEdge               |inprog|**[6,503.212](https://github.com/harsha-simhadri/big-ann-benchmarks/blob/gw/T3/t3/eval_2021/diskann-bare-metal/msspacev-1B_throughput.png)** |
@@ -448,7 +448,7 @@ Please note that all rankings are currently unofficial due to the following reas
 
 |Rank|Submission                                             |Team                          |Hardware               |Status  |W*S/Q       |
 |----|-------------------------------------------------------|------------------------------|-----------------------|--------|------------|
-|   1|[cuanns_multigpu](https://github.com/harsha-simhadri/big-ann-benchmarks/blob/gw/T3/t3/cuanns_multigpu/README.md)                                   |NVidia                      |NVidia GPU               |inprog|**[0.0003](https://github.com/harsha-simhadri/big-ann-benchmarks/blob/gw/T3/t3/eval_2021/cuanns_multigpu/msspacev-1B_power.png)** |
+|   1|[cuanns_multigpu](https://github.com/harsha-simhadri/big-ann-benchmarks/blob/gw/T3/t3/cuanns_multigpu/README.md)                                   |NVidia                      |NVidia GPU               |inprog|**[0.0002](https://github.com/harsha-simhadri/big-ann-benchmarks/blob/gw/T3/t3/eval_2021/cuanns_multigpu/msspacev-1B_power.png)** |
 |   2|[optanne_graphann](https://github.com/harsha-simhadri/big-ann-benchmarks/blob/gw/T3/t3/optanne_graphann/README.md)                                   |Intel                      |Intel Optane               |inprog|**[0.0054](https://github.com/harsha-simhadri/big-ann-benchmarks/blob/gw/T3/t3/eval_2021/optanne_graphann/msspacev-1B_power.png)** |
 |   3|[gemini](https://github.com/harsha-simhadri/big-ann-benchmarks/blob/gw/T3/t3/gemini/README.md)                                   |GSI Technology(*org*)                      |LedaE APU               |inprog|**[0.0485](https://github.com/harsha-simhadri/big-ann-benchmarks/blob/gw/T3/t3/eval_2021/gemini/msspacev-1B_power.png)** |
 |   4|[faiss_t3](https://github.com/harsha-simhadri/big-ann-benchmarks/blob/gw/T3/t3/faiss_t3/README.md)                                   |Facebook Research(*org*)                      |NVidia GPU               |final|**[0.1674](https://github.com/harsha-simhadri/big-ann-benchmarks/blob/gw/T3/t3/eval_2021/faiss_t3/msspacev-1B_power.png)** |
@@ -470,9 +470,9 @@ Please note that all rankings are currently unofficial due to the following reas
 |Rank|Submission          |Team                          |Hardware               |Status  |Cost          |capex   |opex    |unit cost|units@100K qps|KwH*4yrs  |
 |----|--------------------|------------------------------|-----------------------|------- |--------------|--------|--------|---------|--------------|----------|
 |   1|[optanne_graphann](https://github.com/harsha-simhadri/big-ann-benchmarks/blob/gw/T3/t3/optanne_graphann/README.md)|Intel                      |Intel Optane               |inprog|**$16,563.61**   |$14,664.20|$1,899.41|$14,664.20 |1      |18,994.109 |
-|   2|[gemini](https://github.com/harsha-simhadri/big-ann-benchmarks/blob/gw/T3/t3/gemini/README.md)|GSI Technology(*org*)                      |LedaE APU               |inprog|**$685,704.76**   |$668,719.92|$16,984.84|$55,726.66 |12      |169,848.419 |
-|   3|[faiss_t3](https://github.com/harsha-simhadri/big-ann-benchmarks/blob/gw/T3/t3/faiss_t3/README.md)|Facebook Research(*org*)                      |NVidia GPU               |final|**$873,460.84**   |$814,810.30|$58,650.54|$22,021.90 |37      |586,505.424 |
-|   4|[-](-)|-                      |-               |-|**-**   |-|-|- |-      |- |
+|   2|[cuanns_multigpu](https://github.com/harsha-simhadri/big-ann-benchmarks/blob/gw/T3/t3/cuanns_multigpu/README.md)|NVidia                      |NVidia GPU               |inprog|**$150,076.02**   |$150,000.00|$76.02|$150,000.00 |1      |760.244 |
+|   3|[gemini](https://github.com/harsha-simhadri/big-ann-benchmarks/blob/gw/T3/t3/gemini/README.md)|GSI Technology(*org*)                      |LedaE APU               |inprog|**$685,704.76**   |$668,719.92|$16,984.84|$55,726.66 |12      |169,848.419 |
+|   4|[faiss_t3](https://github.com/harsha-simhadri/big-ann-benchmarks/blob/gw/T3/t3/faiss_t3/README.md)|Facebook Research(*org*)                      |NVidia GPU               |final|**$873,460.84**   |$814,810.30|$58,650.54|$22,021.90 |37      |586,505.424 |
 |   5|[-](-)|-                      |-               |-|**-**   |-|-|- |-      |- |
 |   6|                   -|                             -|                      -|       -|             -|       -|       -|        -|             -|         -|        
 |   7|                   -|                             -|                      -|       -|             -|       -|       -|        -|             -|         -|        
